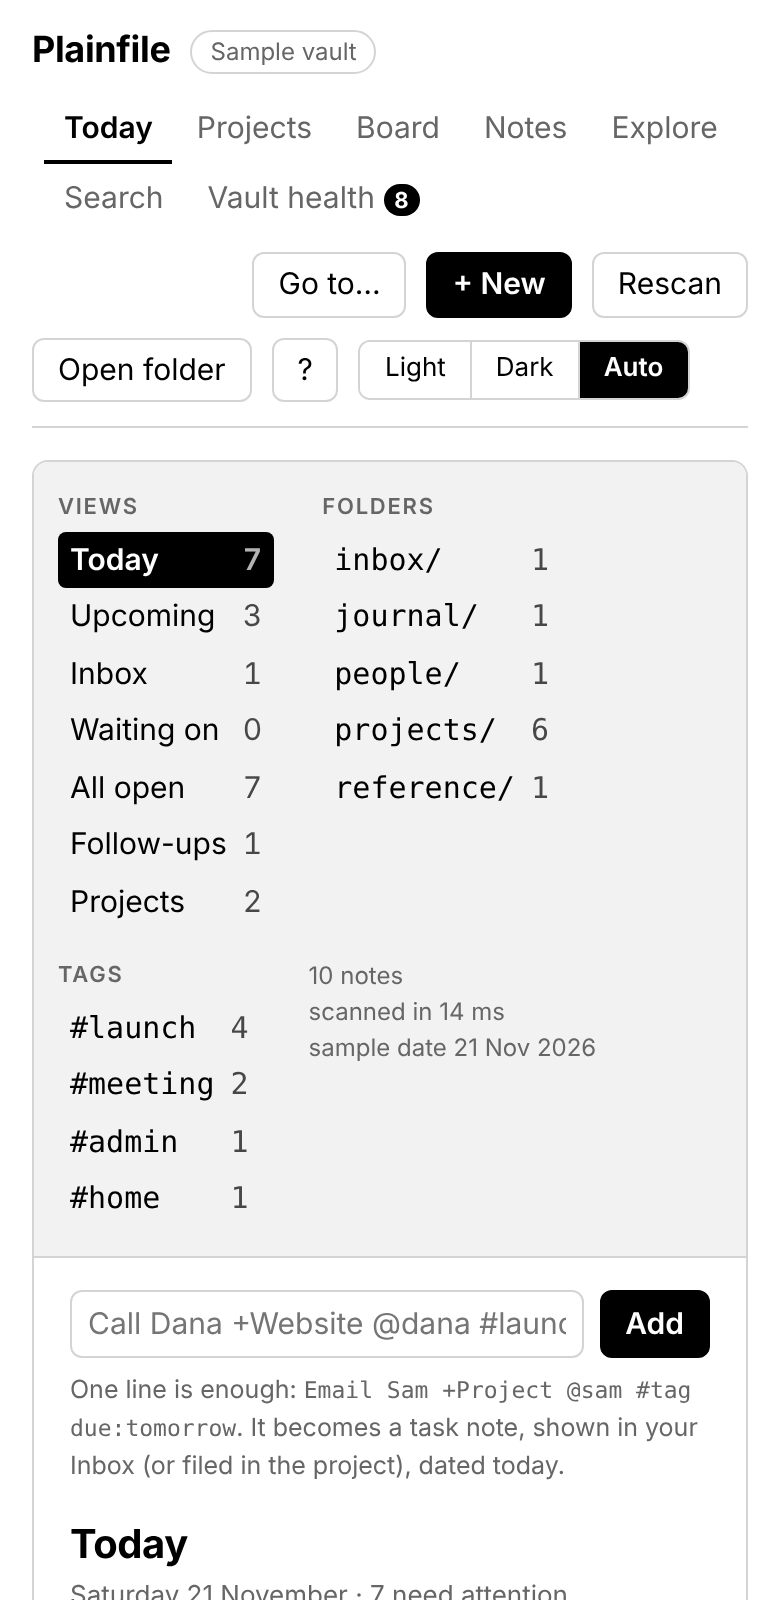
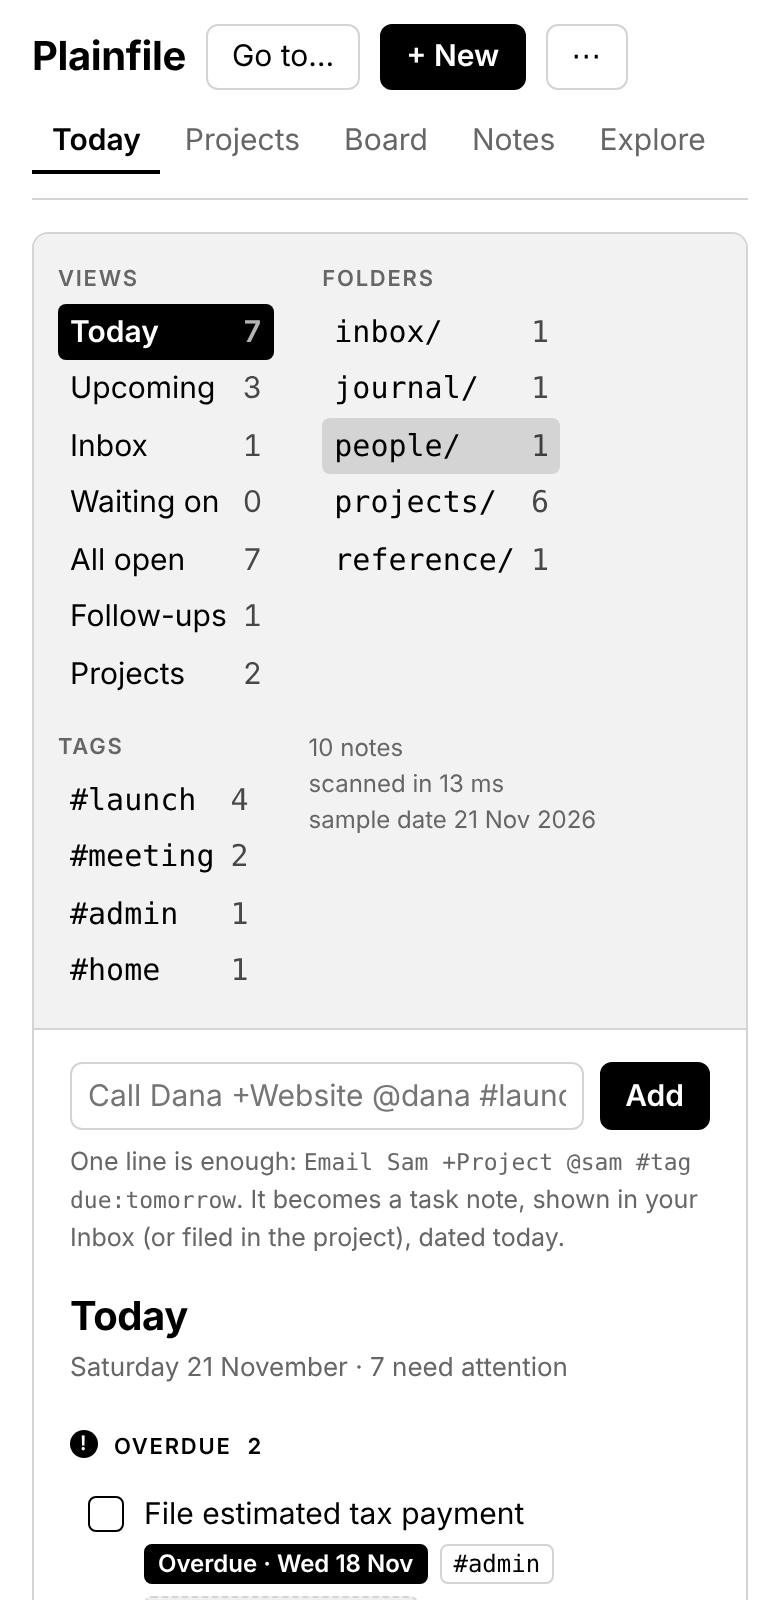
Phone pass: fold controls behind drawers on the header and the project hub (0.34.1)
Claude-Session: https://claude.ai/code/session_01R4FEdBw4QsP4joija6qyER

diff --git a/web/hub.ts b/web/hub.ts
@@ -29,6 +29,10 @@ export const hubState = {
   tidy: false,
   /** The "more filters" drawer stays open while you pick several. */
   facetsOpen: false,
+  /** The Filter & group drawer on a phone, and whether row tick boxes are showing there. */
+  toolsOpen: false,
+  statusOpen: false,
+  selectMode: false,
   /** Task ids ticked for a bulk change. */
   selected: new Set<string>(),
   /** What the bulk bar has typed into it, kept across redraws. */
@@ -43,6 +47,7 @@ export const hubState = {
 };
 
 const PAGE = 25;
+const isNarrow = (): boolean => window.matchMedia('(max-width: 760px)').matches;
 const GROUPS: [GroupBy, string][] = [
   ['due', 'Due date'],
   ['status', 'Status'],
@@ -68,7 +73,7 @@ function tasksOf(idx: NonNullable<typeof state.index>, path: string): HubTask[] 
 /** Start fresh for a project: the filters of one project make no sense in another. */
 export function resetFor(path: string): void {
   if (hubState.project === path) return;
-  Object.assign(hubState, { project: path, filters: newFilters(), toggled: new Set<string>(), limits: new Map<string, number>(), tidy: false, facetsOpen: false, selected: new Set<string>(), preview: undefined, last: undefined, error: '' });
+  Object.assign(hubState, { project: path, filters: newFilters(), toggled: new Set<string>(), limits: new Map<string, number>(), tidy: false, facetsOpen: false, toolsOpen: false, statusOpen: false, selectMode: false, selected: new Set<string>(), preview: undefined, last: undefined, error: '' });
 }
 
 const ago = (ms: number): string => {
@@ -102,16 +107,20 @@ function toolbar(all: HubTask[]): string {
   const phases = count(all.map((t) => t.phase ?? '')).map(([v, n]): [string, string, number] => [v, v || 'No phase', n]);
   const statuses = count(all.map((t) => t.status)).map(([v, n]): [string, string, number] => [v, v, n]);
   const quick = (k: 'overdue' | 'week' | 'none', l: string): string => `<button class="chip${f.due === k ? ' on' : ''}" data-hub-due="${k}" aria-pressed="${f.due === k}">${l}</button>`;
+  const narrow = isNarrow();
+  const active = f.people.length + f.tags.length + f.statuses.length + f.phases.length + (f.due ? 1 : 0);
   return (
+    `<input id="hub-q" class="inp hub-q" type="search" autocomplete="off" spellcheck="false" placeholder="Filter this project…" aria-label="Filter tasks in this project" value="${esc(f.text)}">` +
+    `<details class="hub-tools"${!narrow || hubState.toolsOpen ? ' open' : ''}><summary class="small">Filter &amp; group${active ? ` · ${active} on` : ''}</summary>` +
     '<div class="hub-bar">' +
     `<label class="hub-sel"><span class="small muted">View</span><select id="hub-views" class="inp" aria-label="Saved views"><option value="">${hubState.views.length ? 'Saved views…' : 'No saved views'}</option>${hubState.views.map((v) => `<option value="${esc(v.name)}">${esc(v.name)}</option>`).join('')}${hubState.views.length ? '<option value="__delete">Delete a view…</option>' : ''}</select></label>` +
     (hubState.tab !== 'tasks' ? '' : `<label class="hub-sel"><span class="small muted">Group by</span><select id="hub-group" class="inp">${GROUPS.map(([v, l]) => `<option value="${v}"${v === hubState.groupBy ? ' selected' : ''}>${l}</option>`).join('')}</select></label>` +
     `<label class="check small"><input type="checkbox" id="hub-hidedone"${f.hideDone ? ' checked' : ''}> Hide done</label>`) +
-    (hubState.tab === 'tasks' ? '<button class="btn small" data-hub-selectall title="Select every task that matches the filters">Select all shown</button>' : '') +
-    `<input id="hub-q" class="inp hub-q" type="search" autocomplete="off" spellcheck="false" placeholder="Filter this project…" aria-label="Filter tasks in this project" value="${esc(f.text)}">` +
+    (hubState.tab === 'tasks' ? `<button class="btn small" data-hub-selectmode aria-pressed="${hubState.selectMode}">${hubState.selectMode ? 'Stop selecting' : 'Select tasks'}</button><button class="btn small" data-hub-selectall title="Select every task that matches the filters">Select all shown</button>` : '') +
     '</div>' +
     `<div class="chips hub-quick">${quick('overdue', 'Overdue')}${quick('week', 'Due this week')}${quick('none', 'No date')}<form class="hub-saveview" data-hub-saveview><input id="hub-view-name" class="inp" autocomplete="off" placeholder="Name this view" aria-label="Name for this view" value="${esc(hubState.viewName)}"><button class="btn small" type="submit">Save view</button></form></div>` +
     `<details class="hub-facets"${hubState.facetsOpen || f.people.length || f.tags.length || f.phases.length || f.statuses.length ? ' open' : ''}><summary class="small">More filters: people, tags, phases, status</summary>${facet('People', 'people', people, f.people)}${facet('Tags', 'tags', tags, f.tags)}${facet('Phases', 'phases', phases, f.phases)}${facet('Status', 'statuses', statuses, f.statuses)}</details>` +
+    '</details>' +
     activeChips()
   );
 }
@@ -237,6 +246,7 @@ function statusColumn(all: HubTask[], issues: FieldIssue[]): string {
   const spark = Math.max(1, ...s.weekly);
   return (
     '<aside class="hub-status" aria-label="Project status">' +
+    `<details class="hub-status-d"${isNarrow() && !hubState.statusOpen ? '' : ' open'}><summary class="small">Status: ${s.done} of ${s.total} done${s.overdue ? `, ${s.overdue} overdue` : ''}${issues.length ? `, ${issues.length} to tidy` : ''}</summary>` +
     `<h3>Progress</h3><div class="prog"><i style="width:${pct}%"></i></div><p class="small muted" style="margin:4px 0 8px">${s.done} of ${s.total} done${s.total ? ` (${pct}%)` : ''} · ${s.overdue} overdue</p>` +
     (s.phases.length
       ? `<h3>Phases</h3>${s.phases.map((p) => `<button class="hub-phase${f.phases.includes(p.name === 'No phase' ? '' : p.name) ? ' on' : ''}" data-hub-filter="phases:${esc(p.name === 'No phase' ? '' : p.name)}"><span>${esc(p.name)}</span><b>${p.done}/${p.total}</b><span class="prog"><i style="width:${p.total ? Math.round((p.done / p.total) * 100) : 0}%"></i></span></button>`).join('')}`
@@ -245,7 +255,7 @@ function statusColumn(all: HubTask[], issues: FieldIssue[]): string {
     (s.next.length ? `<h3>Next up</h3><ol class="small hub-next">${s.next.map((t) => `<li><button class="link" data-open="${esc(t.item.path)}" data-line="${t.item.line}">${esc(t.item.title)}</button>${t.due ? ` <span class="muted">${esc(fmtDate(t.due))}</span>` : ''}</li>`).join('')}</ol>` : '') +
     `<h3>Done per week <span class="muted" title="Worked out from when each note was last changed">(estimate)</span></h3><div class="spark" aria-label="Tasks finished in each of the last six weeks">${s.weekly.map((n, i) => `<i style="height:${Math.max(6, Math.round((n / spark) * 100))}%" title="${n} done"></i>`).join('')}</div>` +
     `<h3 style="margin-top:12px">Tidy <span class="n">${issues.length}</span></h3><button class="btn small" data-hub-tidy aria-expanded="${hubState.tidy}">${hubState.tidy ? 'Hide' : issues.length ? 'Review' : 'All uniform'}</button>${hubState.tidy ? `<div class="hub-tidy">${tidyHtml(issues)}</div>` : ''}` +
-    '</aside>'
+    '</details></aside>'
   );
 }
 
@@ -290,10 +300,12 @@ export function html(path: string): string {
   }
   const log = logHtml();
   return (
-    `<div class="hubwrap">${rail(path)}<div class="hub-main">` +
+    `<div class="hubwrap${hubState.selectMode || hubState.selected.size ? ' sel-on' : ''}">${rail(path)}<div class="hub-main">` +
     `<label class="hub-pick small"><span class="muted">Project</span><select id="hub-pick" class="inp">${listProjects(idx).map((p) => `<option value="${esc(p.path)}"${p.path === path ? ' selected' : ''}>${esc(p.title)}</option>`).join('')}</select><button class="btn small" data-act="proj-back">All projects</button></label>` +
     `<div class="ed-head"><div style="min-width:0"><h2 class="title">${esc(d.title)}</h2><div class="meta">${d.active ? 'Active' : 'Inactive'}${d.created ? ` · started ${esc(fmtDate(d.created))}` : ''}${d.lastChange ? ` · last change ${esc(localDateOf(d.lastChange) === today() ? 'today' : fmtDate(localDateOf(d.lastChange)))}` : ''}</div></div>` +
-    `<div class="ed-actions"><button class="btn primary" data-act="proj-task" data-path="${esc(path)}">+ Task</button><button class="btn" data-act="proj-note" data-path="${esc(path)}">+ Note</button><button class="btn" data-act="proj-meeting" data-name="${esc(name)}">+ Meeting</button><button class="btn" data-open="${esc(path)}">Open note</button></div></div>` +
+    `<div class="ed-actions"><button class="btn primary" data-act="proj-task" data-path="${esc(path)}">+ Task</button>` +
+    `<span class="hub-wide-actions"><button class="btn" data-act="proj-note" data-path="${esc(path)}">+ Note</button><button class="btn" data-act="proj-meeting" data-name="${esc(name)}">+ Meeting</button><button class="btn" data-open="${esc(path)}">Open note</button></span>` +
+    `<details class="hub-more"><summary class="btn" aria-label="More: new note, new meeting, open the project note">⋯</summary><div class="hub-more-box"><button class="btn" data-act="proj-note" data-path="${esc(path)}">+ Note</button><button class="btn" data-act="proj-meeting" data-name="${esc(name)}">+ Meeting</button><button class="btn" data-open="${esc(path)}">Open note</button></div></details></div></div>` +
     (d.summary ? `<p class="psummary">${esc(d.summary)}</p>` : '') +
     `<div class="pstats"><div class="pstat"><b>${openCount}</b><span>open</span></div><div class="pstat${d.overdue ? ' late' : ''}"><b>${d.overdue}</b><span>overdue</span></div><div class="pstat"><b>${all.length - openCount}</b><span>done</span></div><div class="pstat"><b>${d.notes.length}</b><span>notes</span></div><div class="pstat"><b>${d.followups.length}</b><span>follow-ups</span></div></div>` +
     `<div class="pprog"><progress max="${Math.max(all.length, 1)}" value="${all.length - openCount}" aria-label="Tasks done"></progress><span class="small muted">${all.length - openCount} of ${all.length} tasks done${all.length ? ` (${Math.round(((all.length - openCount) / all.length) * 100)}%)` : ''}</span></div>` +
@@ -396,6 +408,25 @@ async function move(id: string, status: string): Promise<void> {
 
 export async function click(target: HTMLElement): Promise<boolean> {
   const q = <T extends string>(attr: string): T | undefined => (target.closest(`[${attr}]`) as HTMLElement | null)?.getAttribute(attr) as T | undefined;
+  const toolsSum = target.closest<HTMLElement>('.hub-tools > summary');
+  if (toolsSum) {
+    hubState.toolsOpen = !(toolsSum.parentElement as HTMLDetailsElement).open;
+    return false;
+  }
+  const statusSum = target.closest<HTMLElement>('.hub-status-d > summary');
+  if (statusSum) {
+    hubState.statusOpen = !(statusSum.parentElement as HTMLDetailsElement).open;
+    return false;
+  }
+  if (target.closest('[data-hub-selectmode]')) {
+    hubState.selectMode = !hubState.selectMode;
+    if (!hubState.selectMode) {
+      hubState.selected.clear();
+      hubState.preview = undefined;
+    }
+    render();
+    return true;
+  }
   const sum = target.closest<HTMLElement>('.hub-facets > summary');
   if (sum) {
     hubState.facetsOpen = !(sum.parentElement as HTMLDetailsElement).open; // the click is about to toggle it

diff --git a/web/app.css b/web/app.css
@@ -557,3 +557,37 @@ kbd { border: 1px solid var(--fg); border-radius: 4px; padding: 0 5px; font: 12p
 .hub-group > .grp .gprog { margin-left: auto; }
 .hub-quick { align-items: center; }
 .hub-quick .hub-saveview { margin-left: auto; }
+
+/* ---------- phones: fewer things to tap ---------- */
+.hdr-wide { display: contents; }
+.hdr-more, .hub-more { display: none; position: relative; }
+.hdr-more > summary, .hub-more > summary, .hub-tools > summary, .hub-status-d > summary { list-style: none; cursor: pointer; }
+.hdr-more > summary::-webkit-details-marker, .hub-more > summary::-webkit-details-marker, .hub-tools > summary::-webkit-details-marker, .hub-status-d > summary::-webkit-details-marker { display: none; }
+.hub-tools > summary, .hub-status-d > summary { display: none; }
+.hub-wide-actions { display: contents; }
+.hdr-more-box, .hub-more-box { position: absolute; right: 0; top: calc(100% + 4px); z-index: 30; display: flex; flex-direction: column; gap: 6px; align-items: stretch; background: var(--bg); border: 2px solid var(--fg); border-radius: 10px; padding: 8px; min-width: 12rem; }
+@media (max-width: 760px) {
+  .hdr-wide { display: none; }
+  .hdr-more, .hub-more { display: block; }
+  .hub-wide-actions { display: none; }
+  .bar h1 { font-size: 20px; }
+  .bar .nav { order: 5; flex: 1 1 100%; flex-wrap: nowrap; overflow-x: auto; margin-left: 0; scrollbar-width: none; }
+  .bar .nav::-webkit-scrollbar { display: none; }
+  .navbtn { white-space: nowrap; }
+  .bar .grow { display: none; }
+  .hub-tools > summary, .hub-status-d > summary { display: block; border: 1px solid var(--fg); border-radius: 8px; padding: 8px 12px; margin: 0 0 8px; font-weight: 600; }
+  .hub-tools[open] > summary, .hub-status-d[open] > summary { background: var(--fg); color: var(--bg); }
+  .pstats { display: none; }
+  .psummary { display: -webkit-box; -webkit-line-clamp: 2; -webkit-box-orient: vertical; overflow: hidden; margin: 0 0 8px; }
+  .pprog progress { max-width: 100%; flex: 1; }
+  .tabs { flex-wrap: nowrap; overflow-x: auto; scrollbar-width: none; }
+  .tab { white-space: nowrap; flex: none; }
+  .hub-q { width: 100%; flex: 1 1 100%; margin: 0 0 8px; }
+  .hubwrap:not(.sel-on) .selbox { display: none; }
+  .hub-status { border-top: 0; padding-top: 0; }
+  .hub-bulk { position: static; }
+  .hub-bulk .inp { max-width: none; flex: 1 1 8rem; }
+}
+@media (max-width: 760px) {
+  .bar .tag-pill { display: none; }
+}

diff --git a/tests/e2e/projects.spec.ts b/tests/e2e/projects.spec.ts
@@ -508,5 +508,34 @@ test.describe('portfolio table', () => {
     await rows.first().getByRole('button', { name: 'Beta' }).click();
     await expect(page.locator('.title')).toHaveText('Beta');
   });
+
+  test('on a phone the controls are folded away: the work is on the first screen, and each drawer opens on demand', async ({ page }) => {
+    await page.setViewportSize({ width: 390, height: 800 });
+    const files: Record<string, string> = { 'projects/big/index.md': '---\ntitle: Big project\ntype: project\nactive: true\n---\nGoal text\n' };
+    for (let i = 0; i < 30; i++) files[`projects/big/tasks/Task ${i}.md`] = `---\ntitle: Task ${i}\nstatus: todo\nphase: Phase ${i % 2}\n---\n`;
+    await openVault(page, files);
+    await nav(page, 'Projects').click();
+    await page.locator('.pcard .pbtn').click();
+    await expect(page.locator('.hubwrap')).toBeVisible();
+    const first = await page.locator('.hub-content .task').first().boundingBox();
+    expect(first!.y).toBeLessThan(700); // tasks are visible without scrolling past a wall of controls
+    await expect(page.locator('.pstats')).toBeHidden();
+    await expect(page.locator('.hub-tools')).not.toHaveAttribute('open', '');
+    await expect(page.locator('.hub-status-d')).not.toHaveAttribute('open', '');
+    await expect(page.locator('.selbox').first()).toBeHidden();
+    await expect(page.getByRole('button', { name: 'Rescan' })).toBeHidden(); // behind the ⋯ button
+    await page.locator('.hub-tools > summary').click();
+    await page.locator('#hub-group').selectOption('person');
+    await expect(page.locator('.hub-tools')).toHaveAttribute('open', ''); // stays open while you work in it
+    await page.getByRole('button', { name: 'Select tasks' }).click();
+    await expect(page.locator('.selbox').first()).toBeVisible();
+    await page.getByRole('button', { name: 'Stop selecting' }).click();
+    await expect(page.locator('.selbox').first()).toBeHidden();
+    await page.locator('.hdr-more > summary').click();
+    await expect(page.locator('.hdr-more').getByRole('button', { name: 'Rescan' })).toBeVisible();
+    await expect(page.locator('.hdr-more').getByRole('button', { name: 'Dark' })).toBeVisible();
+    await page.locator('.hub-status-d > summary').click();
+    await expect(page.locator('.hub-status')).toContainText('Progress');
+  });
 });
 

diff --git a/web/main.ts b/web/main.ts
@@ -154,9 +154,12 @@ function shell(): string {
   h += '</nav><span class="grow"></span>';
   h += '<button class="btn" data-act="palette-open" title="Open a note or run an action" aria-label="Go to a note or action">Go to…</button>';
   h += '<button class="btn primary" data-act="new">+ New</button>';
-  h += '<button class="btn" data-act="rescan">Rescan</button>';
-  if (fsaSupported()) h += '<button class="btn" data-act="open">Open folder</button>';
-  h += `<button class="btn" data-nav="guide" aria-label="Syntax cheat sheet" title="Syntax cheat sheet" aria-current="${state.screen === 'guide'}">?</button>${themeControl()}</header>`;
+  const rest =
+    '<button class="btn" data-act="rescan">Rescan</button>' +
+    (fsaSupported() ? '<button class="btn" data-act="open">Open folder</button>' : '') +
+    `<button class="btn" data-nav="guide" aria-label="Syntax cheat sheet" title="Syntax cheat sheet" aria-current="${state.screen === 'guide'}">?</button>${themeControl()}`;
+  // On a phone the less-used buttons and the theme choice sit behind one ⋯ button, so the screen is for the work.
+  h += `<span class="hdr-wide">${rest}</span><details class="hdr-more"><summary class="btn" aria-label="More: rescan, open folder, help and theme">⋯</summary><div class="hdr-more-box">${rest}</div></details></header>`;
   if (state.error) h += `<div class="notice err">${esc(state.error)}</div>`;
   if (state.index && state.index.notes.size === 0) {
     const s = state.index.summary();

diff --git a/tests/e2e/guide.spec.ts b/tests/e2e/guide.spec.ts
@@ -61,7 +61,8 @@ test.describe('cheat sheet', () => {
   test('says so when there are no tags or frontmatter, and fits a phone', async ({ page }) => {
     await page.setViewportSize({ width: 390, height: 800 });
     await openVault(page, { 'a.md': 'plain note' });
-    await page.getByRole('button', { name: 'Syntax cheat sheet' }).click();
+    await page.locator('.hdr-more > summary').click(); // on a phone the ? button is behind ⋯
+    await page.locator('.hdr-more').getByRole('button', { name: 'Syntax cheat sheet' }).click();
     await expect(page.locator('#sec-vault')).toContainText('No tags yet');
     await expect(page.locator('#sec-vault')).toContainText('None of your notes have frontmatter yet');
     expect(await page.evaluate(() => document.documentElement.scrollWidth - document.documentElement.clientWidth)).toBeLessThanOrEqual(0);

diff --git a/BACKLOG.md b/BACKLOG.md
@@ -47,6 +47,11 @@ Nothing here is a promise of order. Remove an item when it ships.
 - `[DEBT]` **A move can change which note a short link means** when two notes share a name and one was chosen because it sat in the same folder; today only full-path links are rewritten in that case. Affects `src/move.ts`.
 - `[FEATURE]` **Ctrl/Cmd+N** for a new note (browsers reserve it; needs an in-app alternative such as Alt+N). Affects `web/main.ts`.
 
+## Phones
+
+- `[FEATURE]` **A phone pass over Today, Notes, Board and Search** like the one done for the project hub: fold secondary controls into drawers, keep the work on the first screen. Affects `web/today.ts`, `web/notes.ts`, `web/board.ts`, `web/search.ts`.
+- `[FEATURE]` **A bottom tab bar on phones** for the main screens (Today, Projects, Notes, Search) with the rest under More. Affects `web/main.ts`.
+
 ## Project hub
 
 - `[FEATURE]` **Edit in place**: click a due chip, status or name on a task row to change it without opening the note, and j/k/x/d/s keys. Bulk changes cover this today. Affects `web/tasks.ts`, `web/hub.ts`, `src/bulk.ts`.

diff --git a/CHANGELOG.md b/CHANGELOG.md
@@ -4,6 +4,19 @@ All notable changes to this project are documented here. Versions follow
 `MAJOR.MINOR.PATCH`. The version in `package.json` is bumped on every
 deploy-intended change, together with an entry here.
 
+## [0.34.1] - 2026-11-21
+
+### Changed
+- **Far fewer things to tap on a phone.** On a narrow screen:
+  - the header keeps the screen tabs (one scrolling row), Go to… and + New; Rescan, Open folder, the cheat
+    sheet and the Light/Dark/Auto choice are behind one ⋯ button;
+  - the project page shows the title, + Task and a ⋯ for Note, Meeting and Open note; the number tiles are
+    hidden, tabs scroll sideways, and the first tasks are on the first screen;
+  - grouping, saved views, date and people filters sit in one **Filter & group** drawer (the search box stays
+    out), and the status column is one **Status** line that opens on demand;
+  - task tick boxes for bulk changes only appear after **Select tasks**.
+  Wide screens are unchanged.
+
 ## [0.34.0] - 2026-11-21
 
 ### Added
